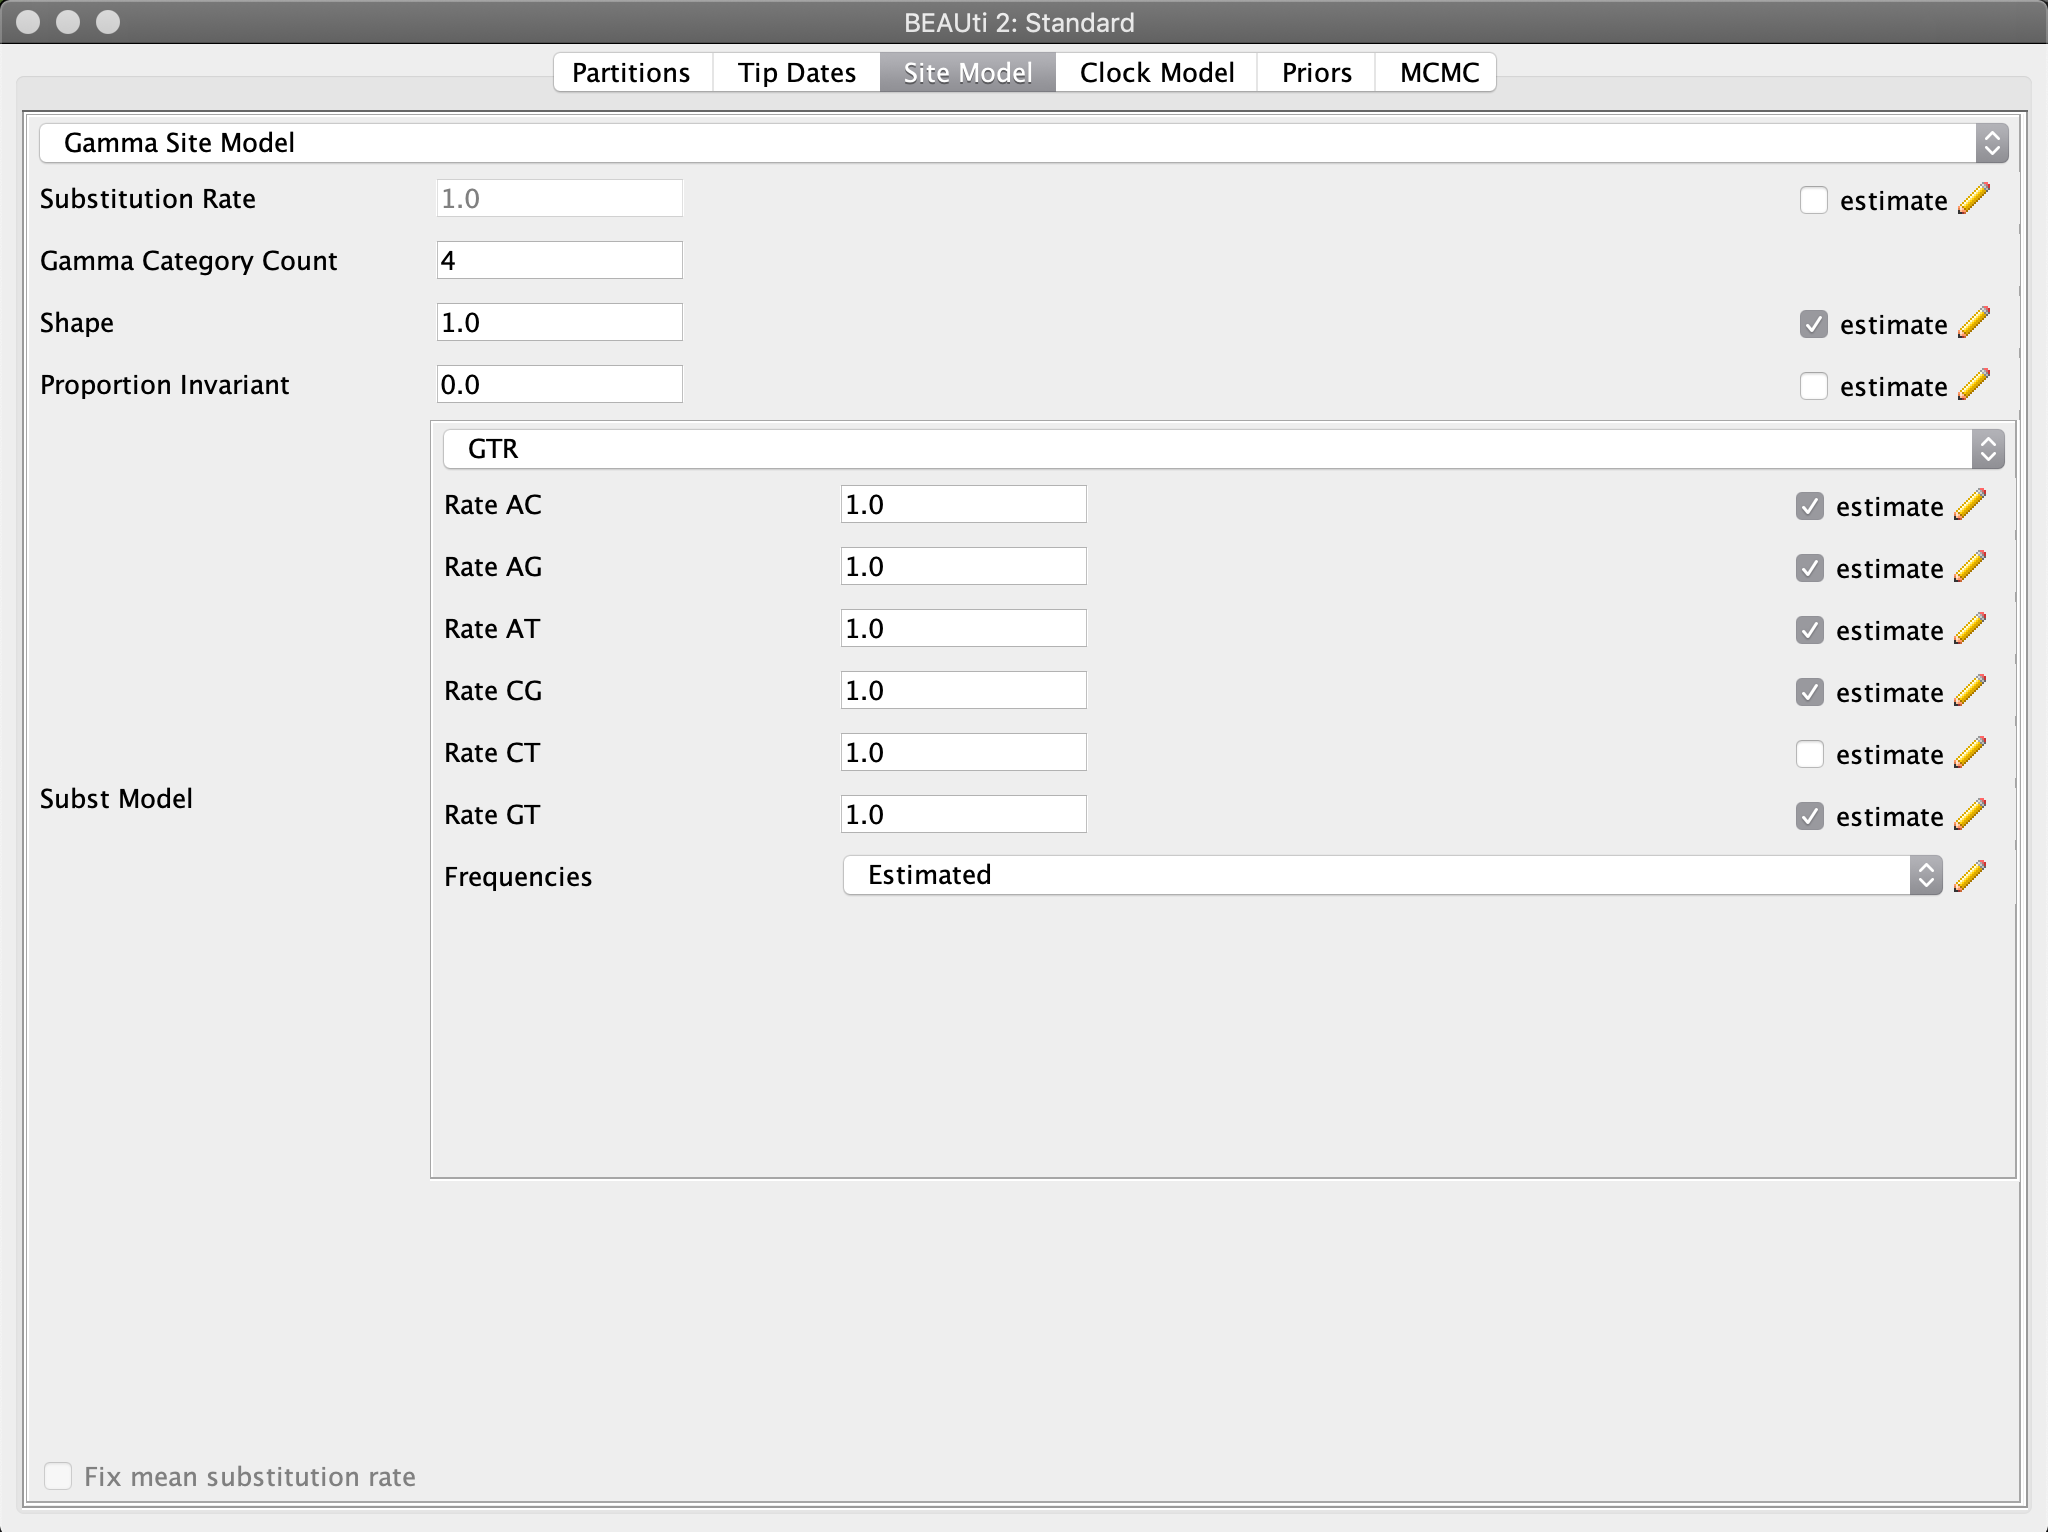
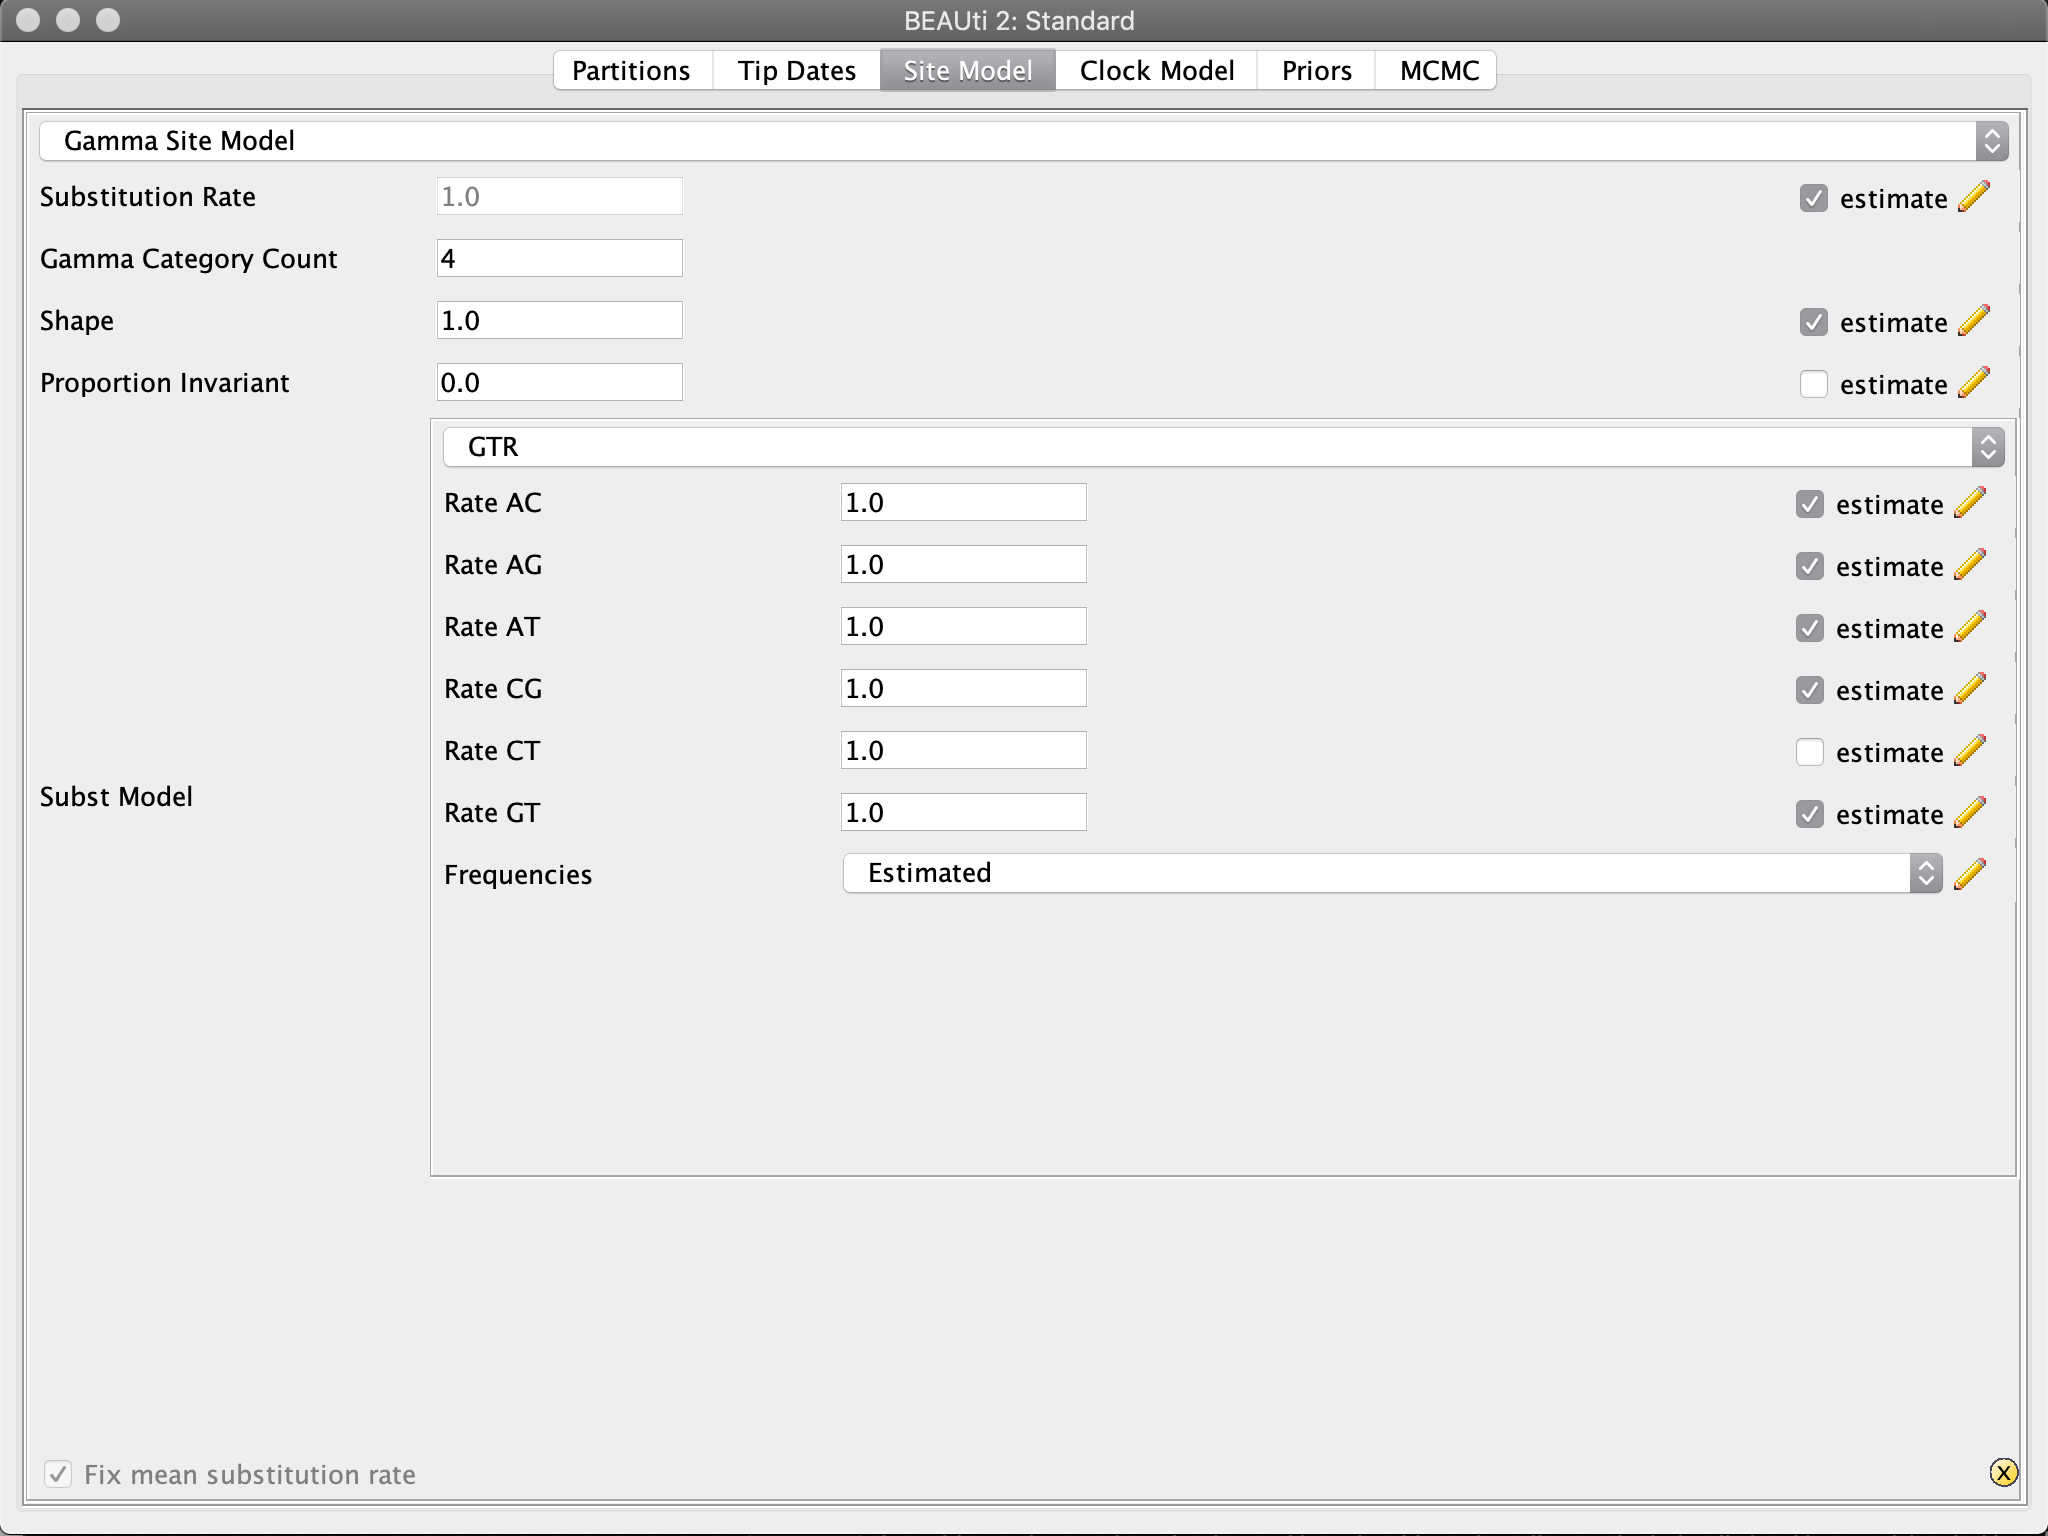
beauti

diff --git a/tutorials/BEAST.md b/tutorials/BEAST.md
@@ -25,7 +25,7 @@
 
 * Open the program BEAUti and import the alignment `FcC_supermatrix.nex`. To do so, click "Import Alignment" from the "File" menu and select the the file `DATA/BEAST/input/FcC_supermatrix.nex` The BEAUti window should then look as shown in the screenshot below. There you can see the number of taxa, alignment length, and any data partition. In this case we are not using any partion. <p align="center"><img src="images/beauti_1.png" alt="beauti" width="900"></p>
 
-* Next, click on the "Site Model" tab next. In this tab we can specify the substitution model. Now, click on the drop-down menu that currently says "JC69". Instead of the Jukes-Cantor model, use the GTR model. Also specify "4" in the field for the "Gamma Category Count" two lines above, to use a gamma model of rate variation with four rate categories. The BEAUti window should then look as shown in the screenshot below.<p align="center"><img src="images/beauti_2.png" alt="beauti" width="900"></p>
+* Next, click on the "Site Model" tab next. In this tab we can specify the substitution model. Now, click on the drop-down menu that currently says "JC69". Instead of the Jukes-Cantor model, use the GTR model. Also specify "4" in the field for the "Gamma Category Count" two lines above, to use a gamma model of rate variation with four rate categories. Finally, set a tick in the checkbox to the right of "Substitution Rate" so that this rate will be estimated.The BEAUti window should then look as shown in the screenshot below.<p align="center"><img src="images/beauti_2.png" alt="beauti" width="900"></p>
 
 * Next, click on the "Clock Model" tab. From the drop-down menu that currently says "Strict Clock", choose "Relaxed Clock Log Normal" instead. This is the most commonly used relaxed clock model in which substitution rates of individual branches are drawn from a lognormal distribution. Also set a tick in the checkbox on the right side of the window. If this checkbox appears gray and you are unable to set it, you'll need to click on "Automatic set clock rate" in BEAUti's "Mode" menu. The mean and standard deviation of this lognormal distribution will be estimated as part of the MCMC search. The model is described in [Drummond et al. (2006)](http://journals.plos.org/plosbiology/article?id=10.1371/journal.pbio.0040088), there it is named the "UCLN" model. Ignore the additional options ("Number of Discrete Rates" etc.) that appear after selecting the model.<p align="center"><img src="images/beauti_3.png" alt="beauti" width="900"></p>
 
@@ -33,7 +33,10 @@
 
 * Most of the other items shown in the "Prior" panel correspond to prior densities placed on the parameters of the substitution models for the four partitions. You may keep the default priors for each of these parameters. However, to allow time calibration of the phylogeny, a prior density still needs to be specified for at least one divergence time, otherwise BEAST2 would have very little information (only from the priors on speciation and mutation rates) to estimate branch lengths according to an absolute time scale. But before prior densities can be placed on the divergence of certain clades, these clades must first be defined. This can be done at the bottom of the "Priors" tab. Thus, scroll down to the end of the list until you see the "+ Add Prior" button, as shown in the below screenshot.<p align="center"><img src="images/beauti_4.png" alt="beauti" width="900"></p>
 
-* Click on the "+ Add Prior" button to open the "Taxon set editor" pop-up window. Select all taxa from the list on the left of that window, and click the double-right-arrow symbol (`>>`) to shift them to the right side of the window. This way, the ingroup, including all taxa, so that the divergence between the root and *Aeonium* can later be used for time calibration. Enter "Crown" or "Root" name at the top of the pop-up window as the "Taxon set label", as shown in the below screenshot. Then, click "OK".<p align="center"><img src="images/beauti_5.png" alt="beauti" width="900"></p>
+* Click on the "+ Add Prior" button to open the "Taxon set editor" pop-up window. Select all taxa from the list on the left of that window, and click the double-right-arrow symbol (`>>`) to shift them to the right side of the window. This way, the ingroup, including all taxa, so that the divergence between the root and *Aeonium* can later be used for time calibration. Enter "Crown" for name at the top of the pop-up window as the "Taxon set label", as shown in the below screenshot. Then, click "OK".<p align="center"><img src="images/beauti_5.png" alt="beauti" width="900"></p>
+
+* Then, click on the black triangle to the left of the button for "Crown.prior". Specify "10.0" as the value for "M" (that is the mean of the prior density) and "0.5" as the value for "S" (that is the standard deviation). Importantly, set a tick in the checkbox for "Mean in Real Space"; otherwise, the specified value for the mean will be considered to be in log space (meaning that its exponent would be used). Next, specify "240" as the offset”. In the plot to the right, you should then see that the density is centered around 250, with a hard minimum boundary at 240 and a "soft" maximum boundary (a tail of decreasing probability). Make sure to activate the checkbox for "Use Originate" a bit further below to specify that the divergence time of this clade from this sister clade should be constrained, not the time when the lineages within this clade began to diverge. Finally, also set a tick in the checkbox for "monophyletic" to the right of the drop-down menu in which "Log Normal" is now selected. By doing so, we constrain the specified ingroup clade of "Euteleosteomorpha" to be monophyletic. The BEAUti window should then look as shown in the below screenshot.<p align="center"><img src="img/beauti12.png" alt="BEAUti" width="700"></p>
+
 
 
 
